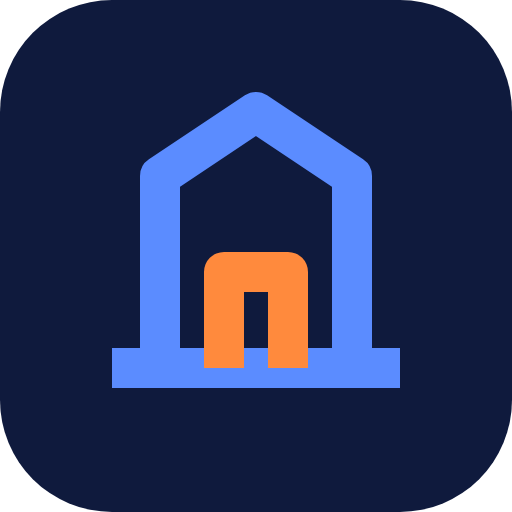
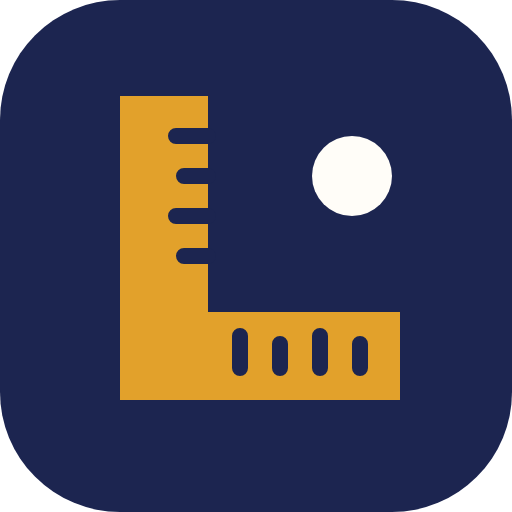
Thème « Atelier Madibu » : interface propre (Avancé, Simplifié, téléphone)
- Papier chaud quadrillé (plan), encre indigo + ocre de chantier, brique et sauge
- Menu latéral clair avec règle graduée, élément actif en encre avec ombre ocre
- Cartes « papier posé », boutons à semelle ocre, champs et tableaux revus
- Fenêtres et connexion avec règle en tête ; dock flottant sur téléphone
- Simplifié : tuiles atelier (encre, sauge, ocre, brique), barre de progression ocre
- Nouvelle icône (équerre de chantier), couleurs du manifeste et de la barre d'état

Claude-Session: https://claude.ai/code/session_014W7HtPay5ah1MMbPzm55BL

diff --git a/web/assets/style.css b/web/assets/style.css
@@ -1215,3 +1215,221 @@ a.s-note { text-decoration: none; color: var(--text); } a.s-note > b { color: va
   .mb-sheet + .mb-sheet { margin-top: 0; break-before: page; page-break-before: always; }
   .mb-foot { position: static; margin-top: 24px; }
 }
+
+/* =====================================================================================================
+   THÈME « ATELIER MADIBU » – identité visuelle propre à l'application (Avancé, Simplifié, téléphone)
+   Encre indigo + ocre de chantier, papier chaud quadrillé (plan), règle graduée, cartes « papier posé »,
+   onglet ocre sur l'élément actif, dock flottant sur téléphone.
+   ===================================================================================================== */
+:root {
+  --ink: #1c2550; --ink-2: #283270; --ink-3: #3a4590;
+  --ochre: #e2a12b; --ochre-2: #c98a17; --ochre-soft: #fcf1dc;
+  --brick: #a8442f; --sage: #3f7a68;
+  --paper: #f4f1e9; --paper-2: #ebe6da;
+  --navy: var(--ink); --navy-2: var(--ink-2); --navy-3: var(--ink-3);
+  --bg: var(--paper); --surface: #fffdf8; --surface-2: #f6f2e8;
+  --text: #1b1e30; --muted: #756e60; --border: #e5dfd0;
+  --primary: var(--ink); --primary-2: #10173a;
+  --radius: 16px;
+  --shadow: 0 1px 0 rgba(28, 37, 80, .06), 5px 5px 0 rgba(28, 37, 80, .045);
+  --grid: rgba(28, 37, 80, .045);
+  --ruler: repeating-linear-gradient(90deg, rgba(255, 255, 255, .55) 0 1px, transparent 1px 8px);
+}
+body { font-family: 'Manrope', -apple-system, BlinkMacSystemFont, 'Segoe UI', Roboto, Helvetica, Arial, sans-serif; font-variant-numeric: tabular-nums;
+  background-color: var(--paper);
+  background-image: linear-gradient(var(--grid) 1px, transparent 1px), linear-gradient(90deg, var(--grid) 1px, transparent 1px);
+  background-size: 28px 28px; background-attachment: fixed; }
+a { color: var(--ink); }
+::selection { background: var(--ochre-soft); }
+:focus-visible { outline: 2.5px solid var(--ochre); outline-offset: 2px; }
+
+/* ---------- Menu latéral : panneau clair, règle verticale, onglet ocre */
+.side { background: #fbf8f1; color: var(--ink); border-right: 1px solid var(--border); }
+.side::after { content: ''; position: absolute; top: 0; bottom: 0; right: -1px; width: 7px; pointer-events: none;
+  background: repeating-linear-gradient(180deg, rgba(28, 37, 80, .28) 0 1px, transparent 1px 8px), repeating-linear-gradient(180deg, rgba(28, 37, 80, .45) 0 1px, transparent 1px 40px);
+  background-size: 4px 100%, 7px 100%; background-repeat: no-repeat; background-position: right top, right top; }
+.brand { color: var(--ink); font-weight: 800; letter-spacing: -.02em; }
+.brand img { background: #fff; border: 1px solid var(--border); border-radius: 10px; padding: 3px 5px; height: 34px; }
+.brand-mark { width: 30px; height: 30px; border-radius: 9px; background: url('icon.svg') center / cover no-repeat; }
+.brand.big { color: var(--ink); }
+.side-toggle { background: var(--surface-2); color: var(--ink); border: 1px solid var(--border); }
+.side-search { border: 1.5px dashed #cfc6b2; color: var(--muted); background: #fff; border-radius: 12px; }
+.side-search:hover { border-color: var(--ink); color: var(--ink); }
+kbd { border-color: #d9d1bf; background: var(--surface-2); color: var(--muted); }
+.side-nav { scrollbar-color: #d9d1bf transparent; }
+.nav { color: #3b3f55; border-radius: 12px; position: relative; font-weight: 600; font-size: 14.5px; }
+.nav svg { color: #8a8270; }
+.nav:hover { background: var(--surface-2); color: var(--ink); }
+.nav:hover svg { color: var(--ink); }
+.nav.on { background: var(--ink); color: #fff; font-weight: 700; box-shadow: 4px 4px 0 var(--ochre); }
+.nav.on svg { color: var(--ochre); }
+.nav-sub { border-left: 2px solid var(--border); margin-left: 23px; padding-left: 14px; }
+.nav-sub a { color: #4f5368; font-weight: 600; border-radius: 9px; }
+.nav-sub a:hover { background: var(--surface-2); color: var(--ink); }
+.nav-sub a.on { color: var(--ink); background: var(--ochre-soft); box-shadow: inset 3px 0 0 var(--ochre); }
+.side-foot { border-top: 1px dashed #d9d1bf; }
+.side-foot .icon-btn { color: var(--ink); }
+.side-foot .icon-btn:hover { background: var(--surface-2); color: var(--ink); }
+.avatar { box-shadow: 0 0 0 2px #fff, 0 0 0 3.5px var(--ochre); }
+
+/* ---------- En-tête de page : transparent sur le plan, titre fort, pastille ocre */
+.top { background: rgba(244, 241, 233, .88); backdrop-filter: blur(10px) saturate(1.3); -webkit-backdrop-filter: blur(10px) saturate(1.3); border-bottom: 1px solid var(--border); }
+.top-title h1 { font-weight: 800; letter-spacing: -.025em; color: var(--ink); }
+.top-ic { background: var(--ink); color: #fff; border-radius: 11px; box-shadow: inset 0 -4px 0 var(--ochre); }
+.top-sub { color: var(--muted); }
+.tabs { background: rgba(244, 241, 233, .92); border-bottom: 1px solid var(--border); gap: 4px; padding-top: 6px; }
+.tabs a { color: var(--muted); border-radius: 10px 10px 0 0; border-bottom: 3px solid transparent; }
+.tabs a:hover { color: var(--ink); background: rgba(255, 255, 255, .6); }
+.tabs a.on { color: var(--ink); border-bottom-color: var(--ochre); background: var(--surface); font-weight: 800; }
+
+/* ---------- Cartes « papier posé » */
+.card, .kpi { background: var(--surface); border: 1px solid var(--border); border-radius: var(--radius); box-shadow: var(--shadow); }
+.card-h h3 { font-weight: 800; letter-spacing: -.01em; color: var(--ink); }
+.card-h h3::before { content: ''; width: 14px; height: 4px; border-radius: 2px; background: var(--ochre); flex: none; }
+.dash .card-h { border-bottom: 1px dashed var(--border); }
+.dash .card-h h3::before { display: none; }
+.dash .card-h svg { color: var(--ochre-2); }
+.dash-b .big { font-weight: 800; color: var(--ink); letter-spacing: -.02em; }
+.dash-line:hover { color: var(--ochre-2); }
+.kpi { position: relative; overflow: hidden; }
+.kpi::before { content: ''; position: absolute; left: 0; top: 0; bottom: 0; width: 4px; background: var(--ochre); }
+.kpi small { text-transform: uppercase; letter-spacing: .08em; font-size: 11px; font-weight: 800; }
+.kpi b { color: var(--ink); font-weight: 800; letter-spacing: -.02em; }
+.card.flat { background: var(--surface-2); box-shadow: none; }
+
+/* ---------- Boutons : encre avec semelle ocre */
+.btn { border-radius: 12px; border: 1.5px solid var(--border); background: var(--surface); color: var(--ink); font-weight: 700; transition: transform .08s, box-shadow .12s, background .12s; }
+.btn:hover { background: #fff; border-color: #cfc6b2; }
+.btn:active { transform: translateY(1px); }
+.btn.primary { background: var(--ink); border-color: var(--ink); color: #fff; box-shadow: inset 0 -3px 0 var(--ochre); }
+.btn.primary:hover { background: var(--primary-2); border-color: var(--primary-2); }
+.btn.danger { color: var(--brick); }
+.btn.ghost { border-color: transparent; background: transparent; }
+.icon-btn { border-radius: 11px; color: var(--ink); }
+.icon-btn:hover { background: rgba(28, 37, 80, .06); }
+.link-btn { color: var(--ink); text-decoration: underline; text-decoration-color: var(--ochre); text-underline-offset: 3px; }
+.badge { border-radius: 7px; font-weight: 800; font-size: 11.5px; letter-spacing: .02em; }
+.chip { border-radius: 10px; border: 1.5px solid var(--border); background: var(--surface); color: var(--ink); font-weight: 700; }
+.chip.on { background: var(--ink); border-color: var(--ink); color: #fff; box-shadow: inset 0 -3px 0 var(--ochre); }
+
+/* ---------- Champs */
+.field > span, .lbl { color: #5d5749; font-weight: 700; font-size: 12px; text-transform: uppercase; letter-spacing: .06em; }
+.field input:not([type=checkbox]), .field select, .field textarea { border: 1.5px solid var(--border) !important; border-radius: 12px !important; background: #fff; }
+.field input:focus, .field select:focus, .field textarea:focus { border-color: var(--ink) !important; box-shadow: 0 0 0 4px rgba(226, 161, 43, .25) !important; }
+input[type=checkbox], input[type=radio] { accent-color: var(--ink); }
+.search { border: 1.5px solid var(--border); border-radius: 12px; background: #fff; }
+.search:focus-within { border-color: var(--ink); box-shadow: 0 0 0 4px rgba(226, 161, 43, .22); }
+.section-t { color: var(--ink); font-weight: 800; }
+
+/* ---------- Tableaux */
+.dt th { background: var(--surface-2); color: #6b6455; text-transform: uppercase; font-size: 11px; letter-spacing: .08em; font-weight: 800; border-bottom: 1.5px solid var(--border); }
+.dt td { border-bottom: 1px solid #efe9dc; }
+.dt tbody tr:hover { background: var(--ochre-soft); }
+.dt tfoot td { background: var(--surface-2); color: var(--ink); }
+.dt tr.sec td { background: var(--surface-2); }
+
+/* ---------- Fenêtres : règle en tête */
+.overlay { background: rgba(20, 24, 48, .5); backdrop-filter: blur(3px); -webkit-backdrop-filter: blur(3px); }
+.modal { background: var(--surface); border-radius: 22px; overflow: hidden; position: relative; box-shadow: 0 26px 70px rgba(10, 14, 40, .35), 8px 8px 0 rgba(226, 161, 43, .35); }
+.modal::before { content: ''; display: block; height: 9px; flex: none; background: var(--ruler), var(--ink); background-size: 8px 4px, auto; background-repeat: repeat-x, no-repeat; }
+.m-head { border-bottom: 1px dashed var(--border); }
+.m-head h2 { font-weight: 800; letter-spacing: -.02em; color: var(--ink); }
+.m-foot { border-top: 1px dashed var(--border) !important; background: var(--surface-2); }
+
+/* ---------- Connexion : plan quadrillé, carte avec règle */
+.login { background-color: var(--ink);
+  background-image: linear-gradient(rgba(255, 255, 255, .06) 1px, transparent 1px), linear-gradient(90deg, rgba(255, 255, 255, .06) 1px, transparent 1px), radial-gradient(circle at 80% 15%, rgba(226, 161, 43, .35), transparent 45%);
+  background-size: 28px 28px, 28px 28px, auto; }
+.login-box { border-radius: 22px; position: relative; overflow: hidden; padding-top: 40px; background: var(--surface); box-shadow: 10px 10px 0 var(--ochre), 0 30px 80px rgba(0, 0, 0, .35); }
+.login-box::before { content: ''; position: absolute; left: 0; right: 0; top: 0; height: 12px; background: var(--ruler), var(--ink); background-size: 8px 5px, auto; background-repeat: repeat-x, no-repeat; }
+.login-box h1 { font-weight: 800; color: var(--ink); letter-spacing: -.02em; }
+
+/* ---------- Assistant, toasts, bandeaux */
+.ai-fab { background: var(--ink) !important; color: #fff; box-shadow: 0 10px 26px rgba(28, 37, 80, .35), inset 0 -4px 0 var(--ochre) !important; border-radius: 16px; }
+#toast { background: var(--ink); border-radius: 14px; box-shadow: 0 12px 30px rgba(10, 14, 40, .3), inset 0 -3px 0 var(--ochre); }
+.firm-band { background: var(--ochre) !important; color: #1d1600 !important; }
+.install-tip { background: var(--ink); box-shadow: 0 14px 34px rgba(10, 14, 40, .35), inset 0 -4px 0 var(--ochre); }
+.install-tip .btn { color: var(--ink); }
+
+/* ---------- Recherche dans les listes longues */
+.sp-o.on { background: var(--ochre-soft); color: var(--ink); }
+.sp-o:hover { background: var(--surface-2); }
+
+/* ---------- Téléphone : dock flottant, en-têtes légers */
+@media (max-width: 860px) {
+  body { background-color: var(--paper); }
+  .top { background: rgba(244, 241, 233, .92); box-shadow: 0 1px 0 var(--border); }
+  .tabs { top: calc(53px + env(safe-area-inset-top)); }
+  .page { padding-bottom: calc(112px + env(safe-area-inset-bottom)); }
+  .bnav { left: 10px; right: 10px; bottom: calc(10px + env(safe-area-inset-bottom)); padding: 8px 6px; border-radius: 24px; border: 0;
+    background: rgba(28, 37, 80, .96); box-shadow: 0 16px 34px rgba(10, 14, 40, .35); align-items: center; }
+  .bn-it { color: #aeb4d6; font-weight: 700; position: relative; }
+  .bn-it.on { color: #fff; }
+  .bn-it.on::after { content: ''; position: absolute; bottom: -5px; width: 18px; height: 3px; border-radius: 2px; background: var(--ochre); }
+  .bn-it.on svg { color: var(--ochre); }
+  .bn-add { margin-top: 0; width: 54px; height: 54px; border-radius: 18px; border: 0; background: var(--ochre); color: var(--ink); box-shadow: 0 6px 16px rgba(226, 161, 43, .45); transform: translateY(-14px) rotate(45deg); }
+  .bn-add svg { transform: rotate(-45deg); width: 26px; height: 26px; stroke-width: 2.6; }
+  .ai-fab { bottom: calc(92px + env(safe-area-inset-bottom)); }
+  #toast { bottom: calc(env(safe-area-inset-bottom) + 96px); }
+  .install-tip { bottom: calc(96px + env(safe-area-inset-bottom)); }
+  .dt-card .dt-tools, .dt-pager, .dt-body .dt tfoot { border-radius: 16px; border-color: var(--border); background: var(--surface); }
+  .dt-body .dt tbody tr { border-radius: 16px; border-color: var(--border) !important; background: var(--surface); box-shadow: 4px 4px 0 rgba(28, 37, 80, .05); }
+  .dt-body .dt tbody tr:active { background: var(--ochre-soft); }
+  .card, .kpi { border-radius: 18px; }
+  .side { box-shadow: 18px 0 50px rgba(10, 14, 40, .25); }
+  .modal { border-radius: 24px 24px 0 0; box-shadow: 0 -10px 40px rgba(10, 14, 40, .3); }
+}
+
+/* ---------- Édition Simplifiée : tuiles de chantier, couleurs atelier */
+body.simple .s-owed { background: var(--ink); box-shadow: 6px 6px 0 var(--ochre); border-radius: 22px; position: relative; overflow: hidden; }
+body.simple .s-owed::after { content: ''; position: absolute; left: 0; right: 0; bottom: 0; height: 8px; background: var(--ruler), rgba(255, 255, 255, .08); background-size: 8px 4px, auto; background-repeat: repeat-x; background-position: bottom; }
+body.simple .s-owed.late { background: var(--brick); box-shadow: 6px 6px 0 var(--ink); }
+.s-owed { background: var(--ink); }
+.s-tile { border-radius: 22px; position: relative; overflow: hidden; box-shadow: 5px 5px 0 rgba(28, 37, 80, .14); font-weight: 800; }
+.s-tile::after { content: ''; position: absolute; left: 0; right: 0; bottom: 0; height: 7px; background: var(--ruler); background-size: 8px 4px; background-repeat: repeat-x; background-position: bottom; opacity: .8; }
+.s-tile svg { width: 42px; height: 42px; padding: 9px; border-radius: 14px; background: rgba(255, 255, 255, .16); box-sizing: content-box; }
+.s-tile.t1 { background: var(--ink); } .s-tile.t1 svg { color: var(--ochre); }
+.s-tile.t2 { background: var(--sage); }
+.s-tile.t3 { background: var(--ochre); color: var(--ink); } .s-tile.t3 svg { background: rgba(28, 37, 80, .1); } .s-tile.t3::after { background-image: repeating-linear-gradient(90deg, rgba(28, 37, 80, .4) 0 1px, transparent 1px 8px); }
+.s-tile.t4 { background: var(--brick); }
+.s-btn { border: 1.5px solid var(--border); border-radius: 18px; background: var(--surface); box-shadow: 4px 4px 0 rgba(28, 37, 80, .05); }
+.s-btn .s-ic { background: var(--ochre-soft); color: var(--ink); border-radius: 13px; }
+.s-btn .s-tx b { color: var(--ink); font-weight: 800; }
+.s-btn .s-tx small { color: var(--muted); }
+.s-btn.sel { border-color: var(--ink); background: #fff; box-shadow: 4px 4px 0 var(--ochre); }
+.s-btn.primary { background: var(--ink); border-color: var(--ink); box-shadow: 5px 5px 0 var(--ochre); }
+.s-btn.primary .s-ic { background: rgba(255, 255, 255, .14); color: var(--ochre); }
+.s-btn.danger { border-color: #e9c2b8; } .s-btn.danger .s-ic { background: #fbeae5; color: var(--brick); } .s-btn.danger .s-tx b { color: var(--brick); }
+.s-big { border-radius: 18px; border: 1.5px solid var(--border); background: var(--surface); color: var(--ink); font-weight: 800; box-shadow: 4px 4px 0 rgba(28, 37, 80, .05); }
+.s-big.primary { background: var(--ink); border-color: var(--ink); color: #fff; box-shadow: 5px 5px 0 var(--ochre); }
+.s-big.primary svg { color: var(--ochre); }
+.s-steps i { background: var(--paper-2); height: 8px; border-radius: 4px; }
+.s-steps i.on { background: var(--ochre); }
+.s-step { border-color: var(--border); border-radius: 16px; }
+.s-step button { background: var(--ochre-soft); color: var(--ink); }
+.s-next { background: var(--ink) !important; color: #fff !important; box-shadow: inset 0 -4px 0 var(--ochre); border-radius: 16px !important; }
+.s-back { border-radius: 16px !important; }
+.s-foot { background: rgba(244, 241, 233, .94) !important; border-top: 1px solid var(--border) !important; }
+.s-chips button.on, .s-chips a.on { background: var(--ink) !important; border-color: var(--ink) !important; color: #fff !important; }
+.s-card { border-radius: 18px !important; border-color: var(--border) !important; background: var(--surface) !important; box-shadow: 4px 4px 0 rgba(28, 37, 80, .05); }
+.s-cardw { border-radius: 18px; border-color: var(--border); box-shadow: 4px 4px 0 rgba(28, 37, 80, .05); }
+.s-cardw .s-card { box-shadow: none; }
+.s-note { border-radius: 16px; border-color: var(--border); background: var(--surface); }
+.s-lang button.on { background: var(--ink); border-color: var(--ink); box-shadow: inset 0 -3px 0 var(--ochre); }
+.s-total { background: var(--ink) !important; border-radius: 20px !important; box-shadow: 6px 6px 0 var(--ochre); }
+.s-done-h { border-radius: 22px !important; border-color: var(--border) !important; background: var(--surface) !important; box-shadow: 6px 6px 0 rgba(28, 37, 80, .06); position: relative; overflow: hidden; }
+.s-done-h::before { content: ''; position: absolute; left: 0; right: 0; top: 0; height: 7px; background: var(--ruler), var(--ink); background-size: 8px 3px, auto; background-repeat: repeat-x, no-repeat; }
+.s-line { border-radius: 18px !important; border-color: var(--border) !important; }
+.s-mic { background: var(--ochre-soft) !important; }
+.s-pays, .s-info { border-radius: 16px; }
+.s-warn { border-radius: 16px; }
+/* compléments du thème : éléments encore aux anciennes couleurs */
+.s-huge { background: var(--ochre) !important; color: var(--ink) !important; box-shadow: 6px 6px 0 var(--ink) !important; border-radius: 24px !important; position: relative; overflow: hidden; }
+.s-huge::after { content: ''; position: absolute; left: 0; right: 0; bottom: 0; height: 8px; background: repeating-linear-gradient(90deg, rgba(28, 37, 80, .45) 0 1px, transparent 1px 8px); background-size: 8px 5px; background-repeat: repeat-x; background-position: bottom; }
+.quick { background: var(--ink); box-shadow: 5px 5px 0 var(--ochre); border-radius: 18px; }
+.ai-logo { background: var(--ink); box-shadow: inset 0 -3px 0 var(--ochre); }
+.ai-msg.me .ai-bub { background: var(--ink); border-color: var(--ink); }
+.ai-act-ic { color: var(--ink); }
+.row-acts .cnt { background: var(--ochre); color: var(--ink); }
+.pi-empty-ic, .s-pep svg { background: var(--ochre-soft); color: var(--ink); }
+.top-ic svg { color: #fff; }

diff --git a/web/index.html b/web/index.html
@@ -3,7 +3,7 @@
 <head>
   <meta charset="utf-8">
   <meta name="viewport" content="width=device-width, initial-scale=1, viewport-fit=cover">
-  <meta name="theme-color" content="#0f1a3d">
+  <meta name="theme-color" content="#f4f1e9">
   <meta name="apple-mobile-web-app-capable" content="yes">
   <meta name="mobile-web-app-capable" content="yes">
   <meta name="apple-mobile-web-app-status-bar-style" content="default">
@@ -15,27 +15,27 @@
   <link rel="apple-touch-icon" href="assets/apple-touch-icon.png">
   <link rel="preconnect" href="https://fonts.gstatic.com" crossorigin>
   <link rel="stylesheet" href="https://fonts.googleapis.com/css2?family=Manrope:wght@400;500;600;700;800&family=Montserrat:wght@400;500;600;700&display=swap">
-  <link rel="stylesheet" href="assets/style.css?v=50">
+  <link rel="stylesheet" href="assets/style.css?v=51">
 </head>
 <body>
   <div id="app"><div class="boot">Chargement…</div></div>
-  <script src="assets/core.js?v=50"></script>
-  <script src="assets/data.js?v=50"></script>
-  <script src="assets/crm.js?v=50"></script>
-  <script src="assets/sales.js?v=50"></script>
-  <script src="assets/chantier.js?v=50"></script>
-  <script src="assets/field.js?v=50"></script>
-  <script src="assets/planning.js?v=50"></script>
-  <script src="assets/peppol.js?v=50"></script>
-  <script src="assets/achats.js?v=50"></script>
-  <script src="assets/purchase.js?v=50"></script>
-  <script src="assets/social.js?v=50"></script>
-  <script src="assets/simple.js?v=50"></script>
-  <script src="assets/invoice.js?v=50"></script>
-  <script src="assets/docs.js?v=50"></script>
-  <script src="assets/import.js?v=50"></script>
-  <script src="assets/mail.js?v=50"></script>
-  <script src="assets/ai.js?v=50"></script>
-  <script src="assets/admin.js?v=50"></script>
+  <script src="assets/core.js?v=51"></script>
+  <script src="assets/data.js?v=51"></script>
+  <script src="assets/crm.js?v=51"></script>
+  <script src="assets/sales.js?v=51"></script>
+  <script src="assets/chantier.js?v=51"></script>
+  <script src="assets/field.js?v=51"></script>
+  <script src="assets/planning.js?v=51"></script>
+  <script src="assets/peppol.js?v=51"></script>
+  <script src="assets/achats.js?v=51"></script>
+  <script src="assets/purchase.js?v=51"></script>
+  <script src="assets/social.js?v=51"></script>
+  <script src="assets/simple.js?v=51"></script>
+  <script src="assets/invoice.js?v=51"></script>
+  <script src="assets/docs.js?v=51"></script>
+  <script src="assets/import.js?v=51"></script>
+  <script src="assets/mail.js?v=51"></script>
+  <script src="assets/ai.js?v=51"></script>
+  <script src="assets/admin.js?v=51"></script>
 </body>
 </html>
